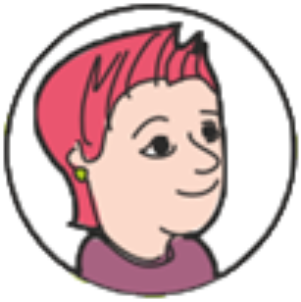
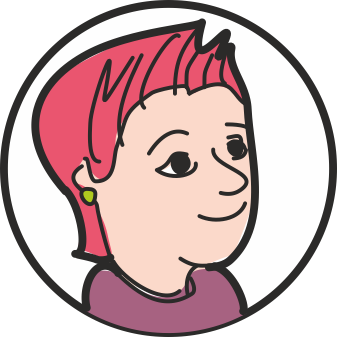
Version 2.4: - Neue Grafiken

Changed region(s): [[0.0, 0.0, 1.0, 1.0], [0.4186, 0.3576, 0.598, 0.5364]]

diff --git a/dist/index.html b/dist/index.html
@@ -1,1 +1,1 @@
-<!DOCTYPE html><html lang=""><head><meta charset="utf-8"><meta http-equiv="X-UA-Compatible" content="IE=edge"><meta name="viewport" content="width=device-width,initial-scale=1"><link rel="icon" href="/favicon.jpg"><title>einfach Informatik 3/4</title><link href="/css/about.b686008f.css" rel="prefetch"><link href="/css/chunk-6aa0850b.3a63c62d.css" rel="prefetch"><link href="/js/about.62ae1f5c.js" rel="prefetch"><link href="/js/chunk-2d0bd957.5bda9f10.js" rel="prefetch"><link href="/js/chunk-2d0cec3e.15368c74.js" rel="prefetch"><link href="/js/chunk-2d0d0bd7.78c5b32f.js" rel="prefetch"><link href="/js/chunk-2d0d6cc5.d3bd8abe.js" rel="prefetch"><link href="/js/chunk-2d0f06be.ae1a127f.js" rel="prefetch"><link href="/js/chunk-2d213aca.a77fd884.js" rel="prefetch"><link href="/js/chunk-2d2143ce.915f85bf.js" rel="prefetch"><link href="/js/chunk-2d230c46.f525b40b.js" rel="prefetch"><link href="/js/chunk-6aa0850b.b20cb535.js" rel="prefetch"><link href="/css/app.b98146c4.css" rel="preload" as="style"><link href="/js/app.467f8757.js" rel="preload" as="script"><link href="/js/chunk-vendors.1eba3a42.js" rel="preload" as="script"><link href="/css/app.b98146c4.css" rel="stylesheet"></head><body><noscript><strong>We're sorry but bsc-thesis doesn't work properly without JavaScript enabled. Please enable it to continue.</strong></noscript><div id="app"></div><script src="/js/chunk-vendors.1eba3a42.js"></script><script src="/js/app.467f8757.js"></script></body></html>
+<!DOCTYPE html><html lang=""><head><meta charset="utf-8"><meta http-equiv="X-UA-Compatible" content="IE=edge"><meta name="viewport" content="width=device-width,initial-scale=1"><link rel="icon" href="/favicon.jpg"><title>einfach Informatik 3/4</title><link href="/css/about.b686008f.css" rel="prefetch"><link href="/css/chunk-63fac710.e455abb5.css" rel="prefetch"><link href="/js/about.62ae1f5c.js" rel="prefetch"><link href="/js/chunk-2d0bd957.5bda9f10.js" rel="prefetch"><link href="/js/chunk-2d0cec3e.15368c74.js" rel="prefetch"><link href="/js/chunk-2d0d0bd7.78c5b32f.js" rel="prefetch"><link href="/js/chunk-2d0d6cc5.d3bd8abe.js" rel="prefetch"><link href="/js/chunk-2d0f06be.ae1a127f.js" rel="prefetch"><link href="/js/chunk-2d213aca.a77fd884.js" rel="prefetch"><link href="/js/chunk-2d2143ce.915f85bf.js" rel="prefetch"><link href="/js/chunk-2d230c46.f525b40b.js" rel="prefetch"><link href="/js/chunk-63fac710.a4ba721a.js" rel="prefetch"><link href="/css/app.3088a934.css" rel="preload" as="style"><link href="/js/app.c2e5be18.js" rel="preload" as="script"><link href="/js/chunk-vendors.1eba3a42.js" rel="preload" as="script"><link href="/css/app.3088a934.css" rel="stylesheet"></head><body><noscript><strong>We're sorry but bsc-thesis doesn't work properly without JavaScript enabled. Please enable it to continue.</strong></noscript><div id="app"></div><script src="/js/chunk-vendors.1eba3a42.js"></script><script src="/js/app.c2e5be18.js"></script></body></html>

diff --git a/src/components/weights/WeightCheck.vue b/src/components/weights/WeightCheck.vue
@@ -15,7 +15,7 @@
         <td>
           <p style="font-size: 1.3em" class="hidden-mobile">Boot {{ i }}</p>
           <img :src="require(`@/assets/transport/boatmax${boatCapacities[i - 1]}.png`)"
-           style="width: 40%; min-width: 80px" draggable="false">
+           style="width: 40%; min-width: 120px; max-width:150px" draggable="false">
         </td>
         <td v-for="j in rows[0].length" :key="j" class="fixedField">
           <img :src="require(`@/assets/weights/size${rows[i - 1][j - 1]}.png`)" draggable="false">
@@ -365,7 +365,7 @@ td img {
 #intro {
   height: 80px;
   display: flex;
-  align-content: flex-end;
+  align-items: center;
 }
 
 .task-box {

diff --git a/src/views/Home.vue b/src/views/Home.vue
@@ -9,6 +9,7 @@
       </a>
       <img :src="require('@/assets/transport/beaver_transport2.png')" draggable="false"/>
     </div>
+
     <div id="task-selector">
       <hr style="height:1px; border-width:0; color:black; background-color:black; margin: 3em">
       <div class="cards">
@@ -81,11 +82,12 @@ export default class Home extends Vue {
   height: 90vh;
   display: flex;
   flex-direction: column;
+  justify-content: space-between;
 }
 
 .cards {
   display: grid;
-  grid-template-columns: repeat(auto-fill, minmax(300px, 1fr));
+  grid-template-columns: repeat(auto-fill, minmax(300px, 2fr));
   grid-auto-rows: auto;
   grid-gap: 1em;
 }

diff --git a/src/components/tools/Tutorial.vue b/src/components/tools/Tutorial.vue
@@ -59,13 +59,10 @@ export default class Tutorial extends Vue {
   width: 100%;
   height: 100%;
   background-color: rgba(0, 0, 0, 0.7);
-  display: table;
+  display: flex;
+  justify-content: center;
+  align-items: center;
   transition: opacity 0.5s ease;
-}
-
-.modal-wrapper {
-  display: table-cell;
-  vertical-align: middle;
 }
 
 .tutorial-container {
@@ -74,7 +71,7 @@ export default class Tutorial extends Vue {
 
 .modal-container {
   width: auto;
-  max-width: 90%;
+  max-width: 1000px;
   margin: 0px auto;
   position: relative;
   padding: 20px 30px;

diff --git a/src/components/tools/Verifier.vue b/src/components/tools/Verifier.vue
@@ -68,7 +68,9 @@ img:hover {
   width: 100%;
   height: 100%;
   background-color: rgba(0, 0, 0, 0.7);
-  display: table;
+  display: flex;
+  justify-content: center;
+  align-items: center;
   transition: opacity 0.3s ease;
 }
 
@@ -85,6 +87,7 @@ img:hover {
   position: relative;
   margin: 0px auto;
   width: 40%;
+  min-width: 500px;;
   padding: 20px 30px 40px 30px;
   background-color: #fff;
   border-radius: 2px;

diff --git a/src/App.vue b/src/App.vue
@@ -19,7 +19,7 @@
           <button class="card clickable">Türme überprüfen</button>
         </router-link>
         <router-link  to="/about">
-          <button class="card clickable">Impressum</button>
+          <button class="card clickable">{{ text.pages.about.title }}</button>
         </router-link>
         <!--<button class="card clickable" onclick="window.print()">
           Drucken

diff --git a/public/index.html b/public/index.html
@@ -5,7 +5,7 @@
     <meta http-equiv="X-UA-Compatible" content="IE=edge">
     <meta name="viewport" content="width=device-width,initial-scale=1.0">
     <link rel="icon" href="<%= BASE_URL %>favicon.jpg">
-    <title>einfach Informatik 3/4</title>
+    <title>Lernumgebung 'eI 3/4'</title>
   </head>
   <body>
     <noscript>

diff --git a/src/components/tools/Buttons.vue b/src/components/tools/Buttons.vue
@@ -1,7 +1,7 @@
 <template>
   <div>
     <div id="button-menu" class="buttons">
-      <router-link to="/">
+      <router-link to="/#start">
         <button class="flex-item flex-center card clickable responsive">
           <p>{{ text.game.buttons.back }}</p>
           <img :src="require('/src/assets/icons/back.png')"/>
